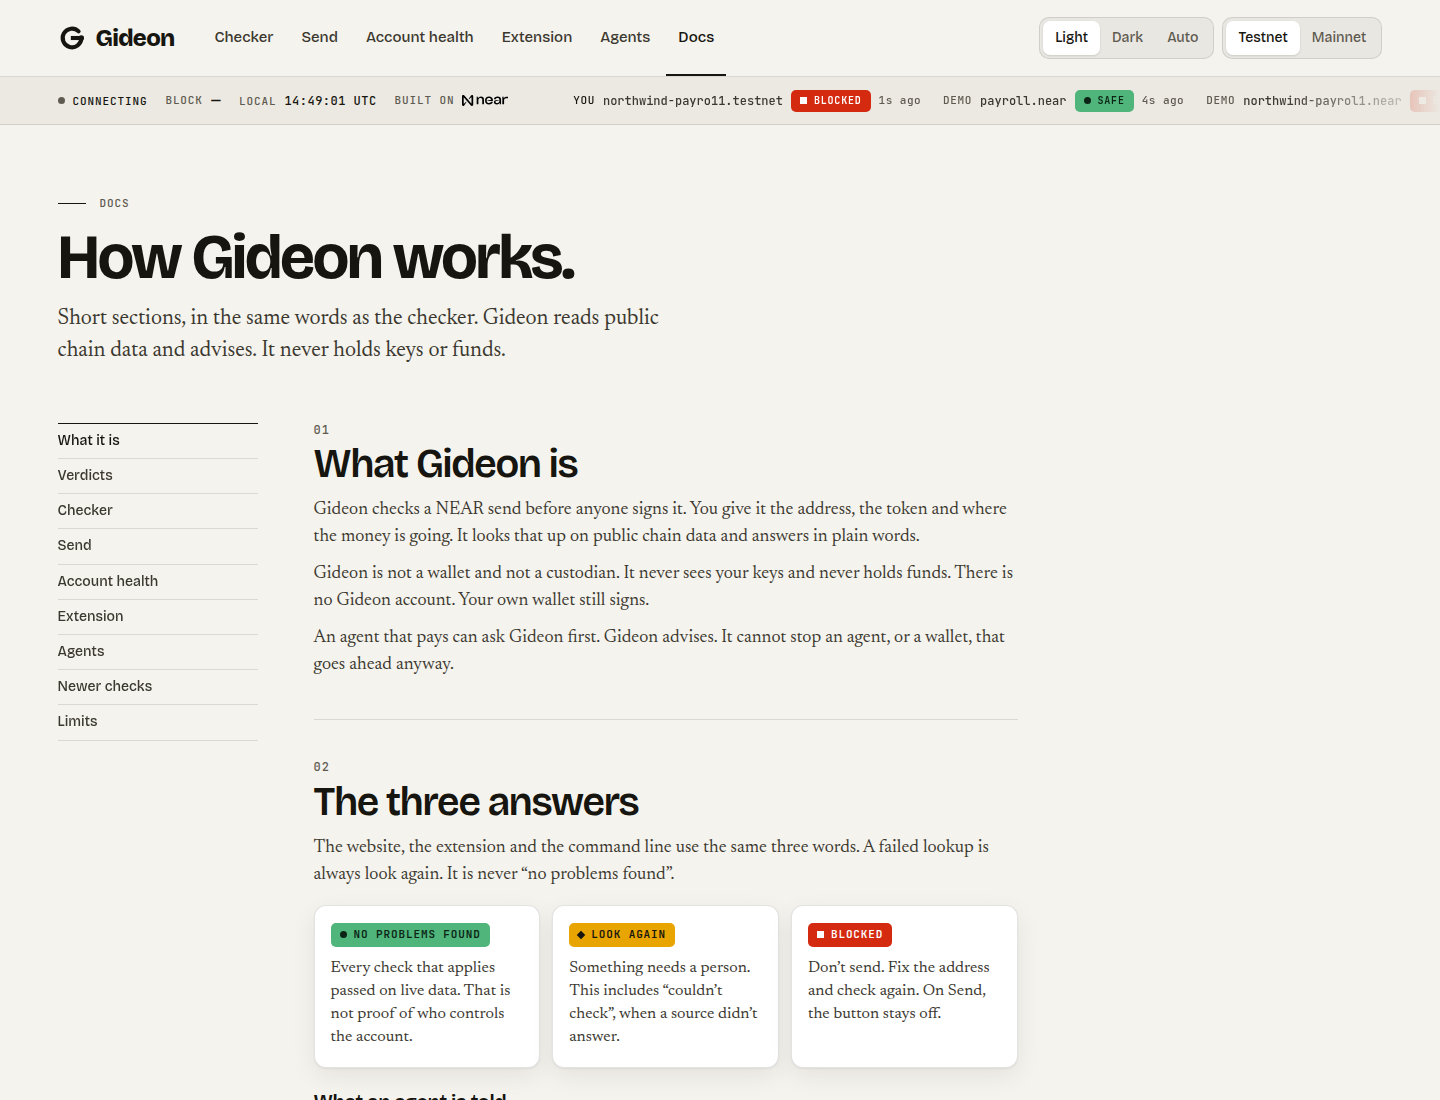
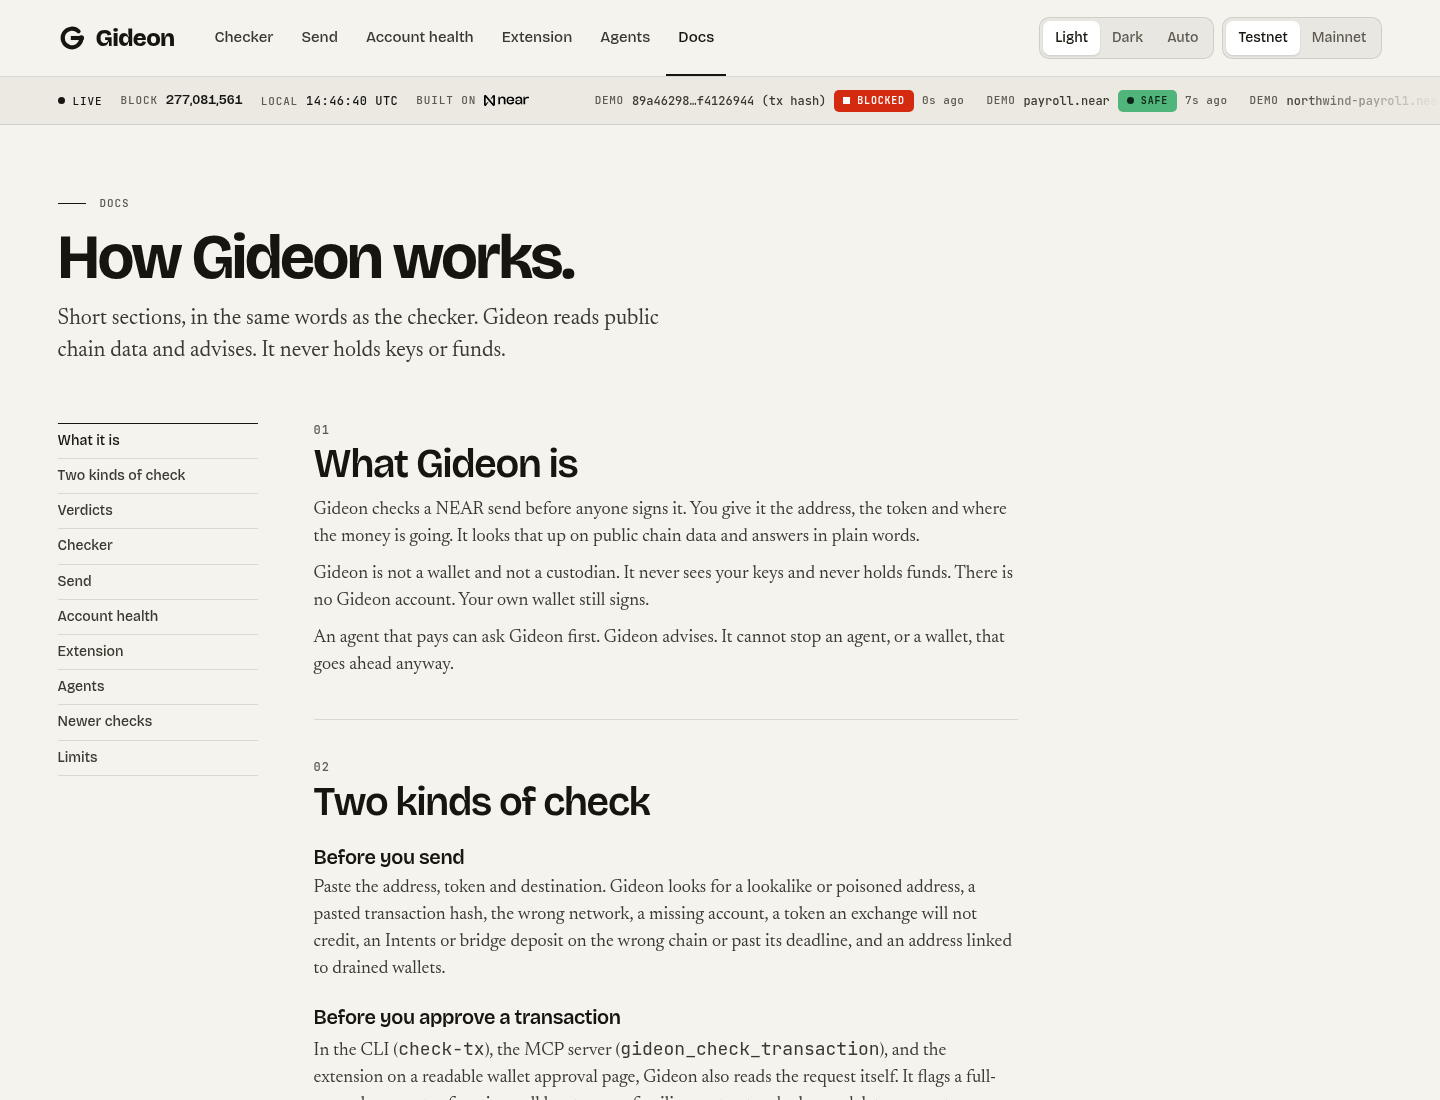
Fix README accuracy after the 0.3.4 wording review (#16)
Docs and screenshots only. No engine, extension, or site-code changes.

Corrects overclaims (gideon_explain does not take a transaction result;
transaction checks cover up to six accounts; the extension was tested
live on Android Mises with Meteor, installed from the zip). Refreshes
the homepage and docs README shots from the live site, drops a dead
Mises install link, points GIDEON_SITE at build.mjs, and marks
superseded changelog lines. Tightens wording on verdict labels,
button holding, the function-call-key demo, and the MCP agent policy.
The Glassbox sibling line and honesty limits stay.

diff --git a/apps/extension/README.md b/apps/extension/README.md
@@ -3,6 +3,27 @@
 The Gideon browser extension for Chrome (Manifest V3). It bundles the same
 engine as the CLI and website (`@gideon/core` and `@gideon/sources`).
 
+## Current behavior
+
+Product version is 0.3.4 (manifest, zips, and the receipt line `gideon-core/0.3.4`).
+The `@gideon/core` package.json stays 0.1.0 because that package is unpublished.
+
+On a web page it checks a pasted or typed address, and it can check a
+transaction on a readable wallet approval page. A blocked check can hold a
+button whose label starts with Send, Withdraw, Transfer, Confirm, Continue,
+Next, Submit, Pay, or Review, and a Submit control in that form. It does not
+hold Approve. Wallet extension pop-ups (Meteor, Sender, and Nightly sealed
+windows) are outside the content script.
+
+It was tested live on an Android phone in Mises Browser, installed from the
+zip, with Meteor Wallet. Install steps for other browsers come from each
+browser's docs or user reports (see Phones below).
+
+It never signs, never sees keys, never moves funds. A failed lookup is
+"couldn't check", never safe. Gideon does not detect honeypot tokens. Up to
+six accounts in a request are checked; any further accounts are listed as not
+checked.
+
 ## Install (Load unpacked)
 
 ```bash
@@ -66,9 +87,9 @@ Fixes from the pre-release audit. Every fix also applies to the website, the CLI
   money goes to one of your accounts or a contact (then LOOK AGAIN). A call with a deposit of
   100 NEAR or more gets a second look, even to a well-known contract. Stake is LOOK AGAIN. An
   action Gideon can't read is COULDN'T CHECK.
-- **Every account in a request is checked**: each recipient, the contract called, the token
+- **Up to six accounts in a request are checked**: each recipient, the contract called, the token
   receiver and a DeleteAccount beneficiary (lookalikes, fake letters, reported scams, missing
-  accounts).
+  accounts). Any further accounts are listed as not checked.
 - **No account planting.** A sender read from the page is never saved to Your accounts.
   Gideon asks "Is {account} yours?" and adds it only when you click. Clicks and pastes made by a
   page script are ignored.
@@ -96,7 +117,7 @@ Fixes from the pre-release audit. Every fix also applies to the website, the CLI
   don't change a CLEAN result. Red is for danger only: a risky contract's app key is now amber.
 - **One quiet retry** before "Couldn't read this account's history" or the key list fails.
 - **"Remove with any wallet"** opens the website's account page for that key, where any NEAR
-  wallet can sign the removal. Shown only when built with `GIDEON_SITE` (see the main README).
+  wallet can sign the removal. Shown only when built with `GIDEON_SITE` (see `apps/extension/build.mjs`; for example `GIDEON_SITE=https://gideon-near.vercel.app`).
 - No new permissions or hosts.
 
 ## What changed in 0.2.9
@@ -125,8 +146,7 @@ Fixes from the pre-release audit. Every fix also applies to the website, the CLI
   (`/connect/testnet/sign?transactions=…`, not signed). Meteor's pop-up flow (the approval
   screen read from its public app code) is **not yet verified live**. Meteor already blocks
   full-access key requests on its own (only approved account recovery services may ask, and
-  Approve is greyed out), so on Meteor the full-access card is a second opinion, not new. The card does not hold the Approve button, and
-  shows nothing when the check itself fails. No new permissions.
+  Approve is greyed out), so on Meteor the full-access card is a second opinion, not new. The card does not hold the Approve button. (Since 0.3.1, a failed check says COULDN'T CHECK; it does not stay silent.) No new permissions.
 
 - **Creation date in the popup's own check.** "Check this send" in the popup now fills in a
   creation date that missed the time limit, the same way the card on a page does (one quiet
@@ -162,7 +182,7 @@ Fixes from the pre-release audit. Every fix also applies to the website, the CLI
   before, used first to send here, account left nearly empty), the card changes to BLOCKED
   "Funds from hacked wallets were swept into this address"; one gives a "Look again". The card
   shows "senders → checking recent senders for hacked wallets…" while this runs (at most 8 s).
-  Skipped for your own accounts, contacts and exchanges. If it fails, nothing changes.
+  Skipped for your own accounts, contacts and exchanges. If it fails, nothing changes. (Superseded in 0.3.3: a failed lookup is now look again, never a pass.)
 - **Long addresses wrap** inside the card instead of running past its edge.
 
 ## What changed in 0.2.5
@@ -294,9 +314,10 @@ Fixes from the pre-release audit. Every fix also applies to the website, the CLI
 ## Phones (Android)
 
 The extension isn't on the Chrome Web Store and doesn't need to be. Some
-Android browsers load extensions from a file. None of these has been tested on
-a real phone yet; the steps come from each browser's docs or user reports,
-linked below.
+Android browsers load extensions from a file. It was tested live on an Android
+phone in Mises Browser, installed from the zip, with Meteor Wallet. The install
+steps below for Quetta, Yandex, Edge, and Firefox come from each browser's docs
+or user reports and have not all been re-tested on a phone.
 
 Build the files on a computer and copy them to the phone:
 
@@ -309,8 +330,7 @@ Build the files on a computer and copy them to the phone:
 so clearing the browser's cache or data removes it; install again if so.
 After installing a new version, reload any wallet tab that was already open
 (otherwise its card says "Gideon was updated. Reload this page to keep checking.").
-([steps](https://github.com/lukman754/Mentari-Unpam),
-[Play listing](https://play.google.com/store/apps/details?id=site.mises.browser_stable),
+([Play listing](https://play.google.com/store/apps/details?id=site.mises.browser_stable),
 [no load-from-folder](https://github.com/mises-id/mises-browser-core/issues/332))
 
 **Quetta** (Chromium). Settings → **Extensions** → **Developer mode** →

diff --git a/README.md b/README.md
@@ -4,7 +4,7 @@
 
 On NEAR, a signed send is usually hard to reverse. A lookalike or poisoned address, a pasted transaction hash, the wrong network, a fake token, or a request that adds a key, deploys code, or deletes the account can put the funds at risk.
 
-Gideon is a pre-send safety check for NEAR. It reads public chain data and answers **BLOCKED**, **LOOK AGAIN** or **NO PROBLEMS FOUND**, in plain words. It never sees keys and never holds funds. It advises; your wallet still signs. An agent that ignores the advice can still send.
+Gideon is a pre-send safety check for NEAR. It reads public chain data and answers **BLOCKED**, **LOOK AGAIN** or **NO PROBLEMS FOUND**, in plain words (the extension card says **STOPPED** or **SEND HELD** when it holds the send). It never sees keys and never holds funds. It advises; your wallet still signs. An agent that ignores the advice can still send.
 
 Paste the address, token and destination you are about to send to. In the extension, the CLI (`check-tx`) and the MCP server (`gideon_check_transaction`), you can also check a transaction before you approve it, including a function-call key granted to an unfamiliar contract.
 
@@ -16,7 +16,7 @@ Paste the address, token and destination you are about to send to. In the extens
 
 The website checks addresses (and Intents deposits) only. It does not run a transaction check.
 
-Gideon advises; your wallet still signs. The extension can hold Send on a web page when the check is blocked; it does not hold Approve. Wallet extension pop-ups (Meteor, Sender, and Nightly sealed windows) are outside the content script. Gideon does not detect honeypot tokens.
+The extension can hold Send on a web page when the check is blocked; it does not hold Approve. Wallet extension pop-ups (Meteor, Sender, and Nightly sealed windows) are outside the content script. Gideon does not detect honeypot tokens.
 
 ![Gideon home, Gate G, light](shots/home-light.png)
 
@@ -56,7 +56,7 @@ npm run demo:function-call-key -- --offline
 
 `demo:attack` reads a planted invoice for `northwind-payrol1.testnet` (one character off a saved contact) and stops on **BLOCKED** / **DO_NOT_SEND**.
 
-`demo:function-call-key` holds one `ft_transfer` key on `wrap.testnet`. The allowance is gas, not a cap on the token. It refuses Transfer and AddKey, then stops on that same payee.
+`demo:function-call-key` holds one `ft_transfer` key on `wrap.testnet`. The allowance is gas, not a cap on the token. The key can only call `ft_transfer`; it cannot sign Transfer or AddKey. The demo then runs that same payee through Gideon and stops on **BLOCKED** / **DO_NOT_SEND**.
 
 ![A blocked lookalike on the checker](shots/check-blocked-light.png)
 
@@ -91,9 +91,9 @@ No problems found means these checks passed on live data. It is not proof of who
 
 The MCP daily spend tally (R21) is process-local and advisory. That server keeps an in-memory map of NEAR this process has already cleared to SEND. The day is UTC. The map resets when the process restarts. Each instance has its own map. Repeating a successful check counts again. It is not an account-wide limit, and it is not what the chain shows was sent. The CLI does not keep that map: a cap applies to the check you are running, plus `--spent` if you pass it. No cap set means the check does not apply. `--no-drainer` skips the drained-wallet check and records that it was not run; it does not turn a failed lookup into a pass.
 
-Gideon advises. An agent can ignore the answer and still send. A block holds only when the wallet, or the other code that signs, refuses the send.
+Gideon advises. An agent can ignore the answer and still send. A block holds only when the wallet, or the other code that signs, refuses the send — or when the extension holds a page button, as below.
 
-The extension can hold Send on a web page when the check is blocked, and other buttons in that form whose label starts with Withdraw, Transfer, Confirm, Continue, Next, Submit, Pay, or Review. It does not hold Approve. Wallet extension pop-ups (Meteor, Sender, and Nightly sealed windows) are outside the content script, so Gideon cannot read them.
+The extension can hold a button in that form whose label starts with Send, Withdraw, Transfer, Confirm, Continue, Next, Submit, Pay, or Review, and a Submit control in that form. It does not hold Approve. Wallet extension pop-ups (Meteor, Sender, and Nightly sealed windows) are outside the content script, so Gideon cannot read them.
 
 The Send page sends native NEAR. That check-then-send flow was tried with a mock wallet, not with a live Meteor, HOT, or Intear wallet.
 

diff --git a/packages/mcp/README.md b/packages/mcp/README.md
@@ -4,13 +4,13 @@ An MCP server (stdio, official TypeScript MCP SDK v2) that lets an AI agent chec
 
 | Tool | What it does |
 | --- | --- |
-| `gideon_check` | Runs every Gideon address rule on `recipient` (plus optional `network`, `amount`, `token`, `token_contract`, `destination`, `exchange`, `sender`, `address_book`, `memo`, `payee`, `chain`, `daily_limit`). Returns `verdict`, `agent_action`, `reasons`, `fix`, `couldnt_check`, `receipt` and the full `result`. A failed drained-wallet lookup is look again, never a pass. |
+| `gideon_check` | Runs Gideon’s address rules on `recipient` (plus optional `network`, `amount`, `token`, `token_contract`, `destination`, `exchange`, `sender`, `address_book`, `memo`, `payee`, `chain`, `daily_limit`). R10 stays skipped unless a registry is set. Returns `verdict`, `agent_action`, `reasons`, `fix`, `couldnt_check`, `receipt` and the full `result`. A failed drained-wallet lookup is look again, never a pass. |
 | `gideon_check_transaction` | Checks a transaction or sign-in before you approve it (`request` is a wallet link, base64, or JSON). This includes a function-call key granted to an unfamiliar contract. Returns the same shape as `gideon_check`. |
 | `gideon_account_health` | Lists the keys that can act for an account, from public data, and what each one can do. |
-| `gideon_explain` | Plain-words explanation of a `result` from `gideon_check` or `gideon_check_transaction`, or of a fresh check. Uses NEAR AI only if `NEARAI_API_KEY` is set, otherwise the built-in text. Refuses a result whose receipt doesn't match. |
+| `gideon_explain` | Plain-words explanation of a `result` from `gideon_check`, or of a fresh address check. It does not take a `gideon_check_transaction` result. Uses NEAR AI only if `NEARAI_API_KEY` is set, otherwise the built-in text. Refuses a result whose receipt doesn't match. |
 | `gideon_flags` | Community flags on an account from a flag registry contract. **Not deployed.** With no registry set the status is `COULD_NOT_CHECK`, never “no flags”. There is no live community scam database. |
 
-**Agent policy** (sent as the server's `instructions` and as `agent_action` on every result):
+**Agent policy** (sent as the server's `instructions` and as `agent_action` on every result). The `from` / `ASK_HUMAN` rule applies to `gideon_check`. On a transaction check (`gideon_check_transaction`), SAFE is `SEND`.
 
 | verdict | agent_action | Gideon asks (it cannot force this) |
 | --- | --- | --- |

diff --git a/contracts/flag-registry/README.md b/contracts/flag-registry/README.md
@@ -18,7 +18,7 @@ no admin key and no init call**: nobody can edit or delete someone else's
 flag. Once it's deployed, deleting the contract account's full-access key
 locks the code too.
 
-Build and test from the repo root (Rust 1.95 is pinned in `rust-toolchain.toml`):
+From the repo root, build and test in `contracts/flag-registry` (Rust 1.95 is pinned in `rust-toolchain.toml`):
 
 ```bash
 cd contracts/flag-registry
